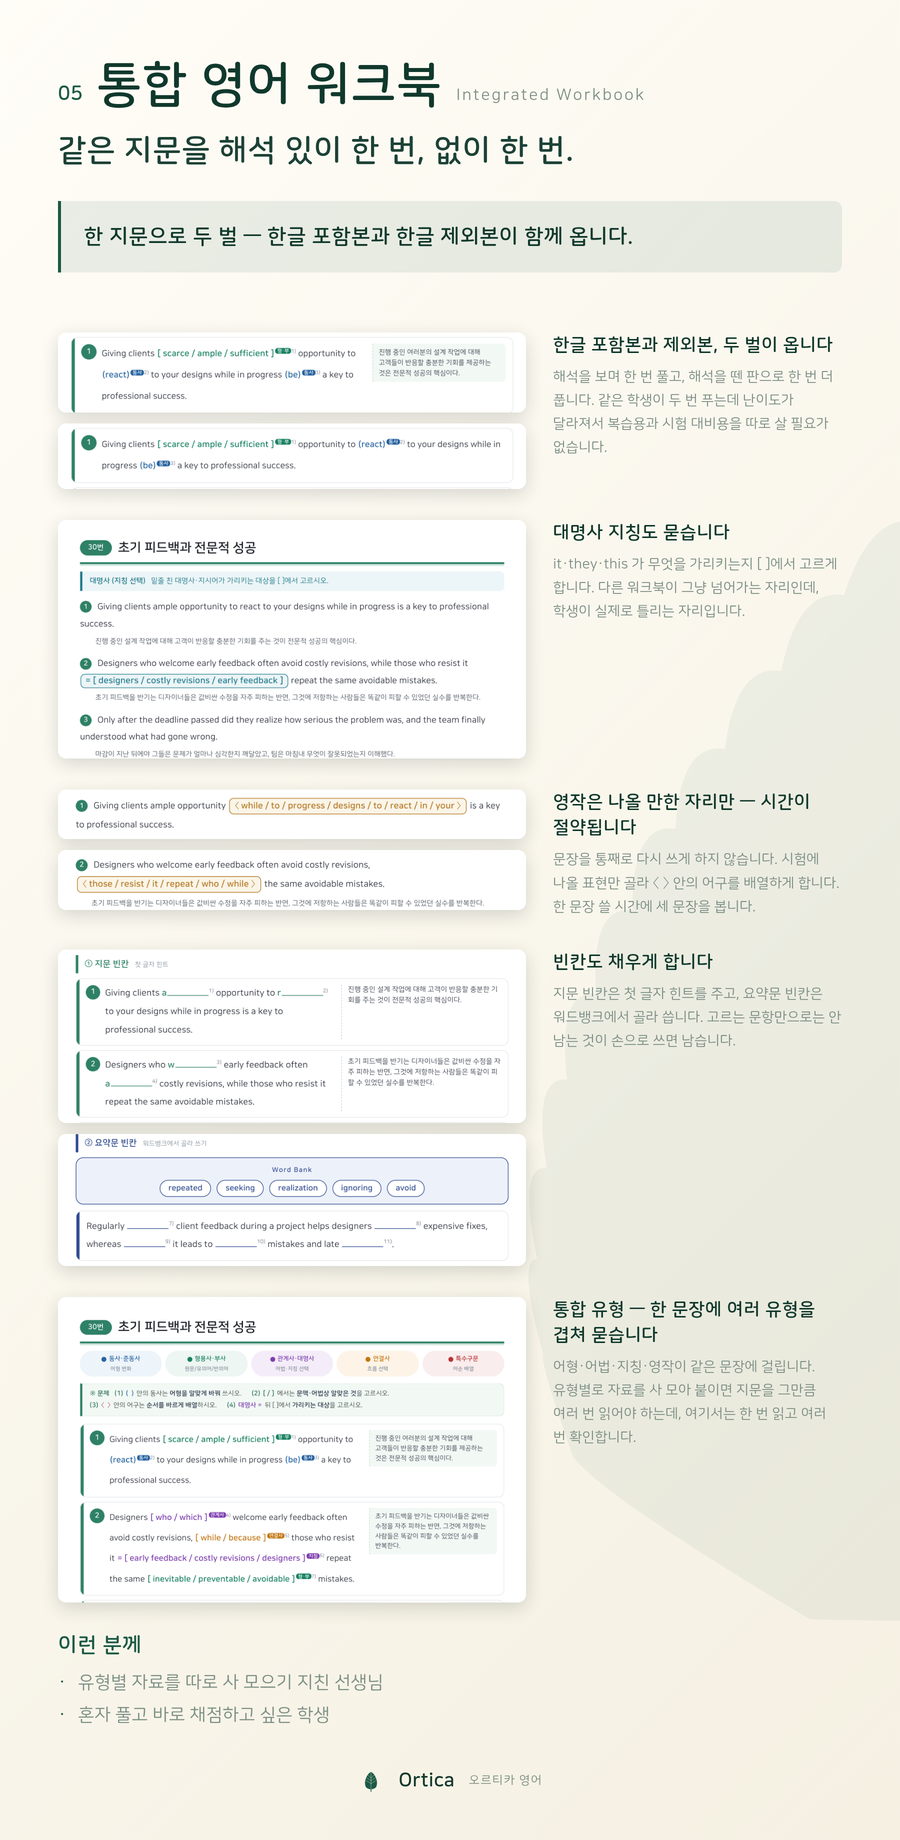
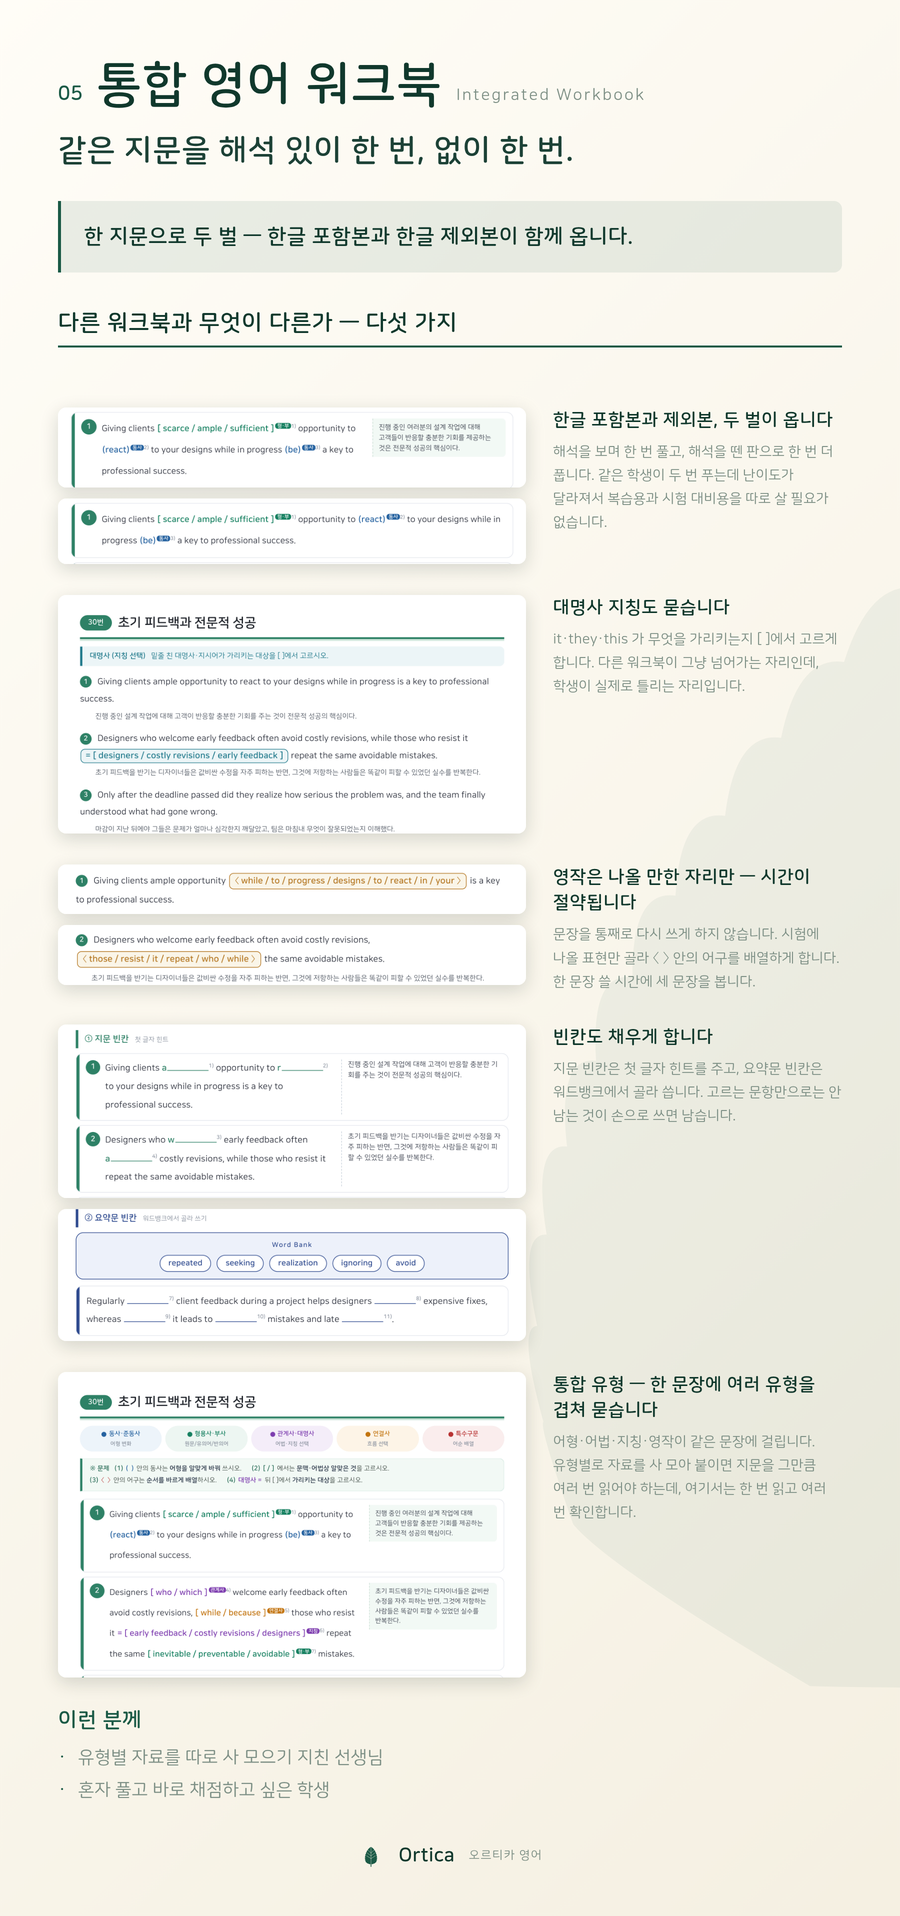
통합 워크북 특징 묶음에 제목을 달아 차별점임을 밝힘
다섯 줄이 그냥 기능 설명처럼 읽혔다. '다른 워크북과 무엇이 다른가 — 다섯
가지'를 위에 세우고 초록 밑줄로 끊어, 아래 다섯 줄이 그 답이라고 먼저
알려 준다.

Item.points_title 추가. 넣은 자료만 제목이 붙는다.

Claude-Session: https://claude.ai/code/session_015BpsJgtaBR6xs1aCKnE4xw

diff --git a/brand/build.py b/brand/build.py
@@ -646,6 +646,16 @@ def build_detail(item, width: int = DOC_W) -> tuple[str, int]:
           <div style="flex:1 1 auto">{text}</div>
         </div>"""
 
+    # 특징 묶음 제목. '이게 다른 자료와 뭐가 다른데'를 묻고 있는 사람에게
+    # 아래 줄들이 그 답이라고 먼저 알려 준다.
+    pts_title = ""
+    if item.points_title:
+        pts_title = f"""<div style="margin-top:{u * 4.2:.0f}px;
+          padding-bottom:{u * 1.0:.0f}px;border-bottom:2px solid {t['accent']}">
+          <div class="ko" style="font-size:{u * 2.6:.0f}px;color:{t['fg']};
+               word-break:keep-all">{item.points_title}</div>
+        </div>"""
+
     n_pts = item.max_points or MAX_POINTS
     has_crops = any(len(pt) > 2 and pt[2] for pt in item.points)
     if has_crops:
@@ -741,6 +751,7 @@ def build_detail(item, width: int = DOC_W) -> tuple[str, int]:
           {edge_el}
           {sample_el}
           {tables_el}
+          {pts_title}
           <div style="margin-top:{u * 3.2:.0f}px">{pts}</div>
           {spec_el}
           {who_el}

diff --git a/brand/catalog.py b/brand/catalog.py
@@ -35,6 +35,7 @@ class Item:
     #   '세 가지 중에 고르세요'라고 써 놓고 한 가지만 보여 주는 꼴이 된다
     extra: list[tuple[str, str]] = field(default_factory=list)  # (예시 파일명, 설명) 추가 장
     max_points: int = 0          # 특징 줄 수. 0이면 build.MAX_POINTS
+    points_title: str = ""       # 특징 묶음 위에 다는 제목. 비면 제목 없이 바로
     lineup_points: int = 0       # 라인업 줄에 보일 특징 수. 0이면 두 줄
     # ↑ 셋 이상이면 소제목만 짧게 늘어놓는다. 설명까지 다 넣으면 목록이 늘어진다
     figures: int = 0             # 상세페이지에 넣을 사진 수. 0이면 build.MAX_FIGURES
@@ -261,6 +262,7 @@ MATERIALS: list[Item] = [
     ),
     Item(
         key="workbook-integrated",
+        points_title="다른 워크북과 무엇이 다른가 — 다섯 가지",
         max_points=5,
         lineup_points=5,
         no="05",

diff --git a/brand/README.md b/brand/README.md
@@ -143,7 +143,8 @@ posts/03-pilsaengbo-class.md      본문 원고 초안
 한 줄
 차별점 한 문장
 구성 표 (회차·난이도 같은 것)
-포인트 → 사진, 포인트 → 사진 … (넷, 자료에 따라 다섯)
+(특징 묶음 제목 — points_title 을 넣은 자료만)
+포인트 → 사진, 포인트 → 사진 … (넷, 자료에 따라 다섯·여섯)
 이런 분께
 가격 (catalog.py 에 넣으면 나옵니다)
 ```
